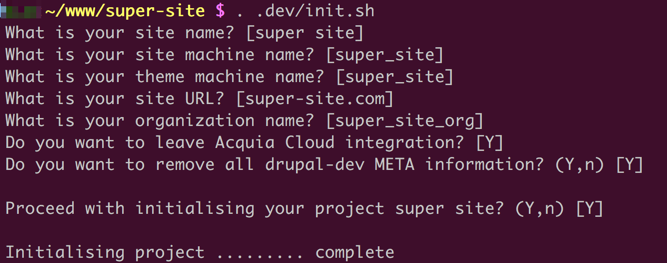
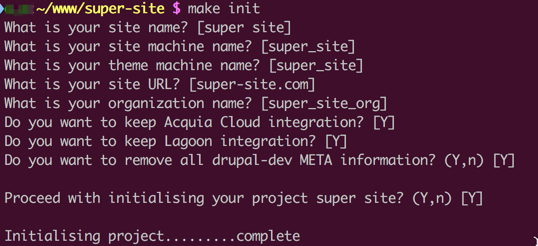
Feature/8.x docs update (#186)
* Updated documentation.

* Updated command docs.

diff --git a/.dev/README.template.md b/.dev/README.template.md
@@ -27,6 +27,7 @@ Run each command as `make <command>`.
   build-fed-prod       Build front-end assets for production.
   clean                Remove dependencies.
   clean-full           Remove dependencies and Docker images.
+  clear-cache          Clear Drupal cache.
   docker-cli           Execute command inside of CLI container.
   docker-destroy       Destroy Docker containers.
   docker-logs          Show logs.
@@ -38,14 +39,14 @@ Run each command as `make <command>`.
   drush                Run Drush command.
   export-db-dump       Export database dump.
   help                 Display this help message.
+  install              Install dependencies.
   import-db            Import database dump and run post import commands.
   import-db-dump       Import database dump.
   lint                 Lint code.
   login                Login to the website.
   rebuild              Re-build project dependencies.
-  rebuild-full         Cleanup and fully re-build project dependencies.
+  rebuild-full         clean and fully re-build project dependencies.
   sanitize-db          Sanitize database.
-  site-install         Install a site.
   test                 Run all tests.
   test-behat           Run Behat tests.
   ```

diff --git a/README.md b/README.md
@@ -38,6 +38,7 @@ Composer-based Drupal 8 project scaffolding with code linting, tests and automat
   - **artefact deployment to [destination repository](https://github.com/integratedexperts/drupal-dev-destination)**
 - Integration with [dependencies.io](https://dependencies.io) to keep the project up-to-date.
 - Integration with Acquia Cloud.
+- Integration with [Lagoon](https://github.com/amazeeio/lagoon).
 - Project documentation [template](.dev/README.template.md)
 - Project initialisation script
 
